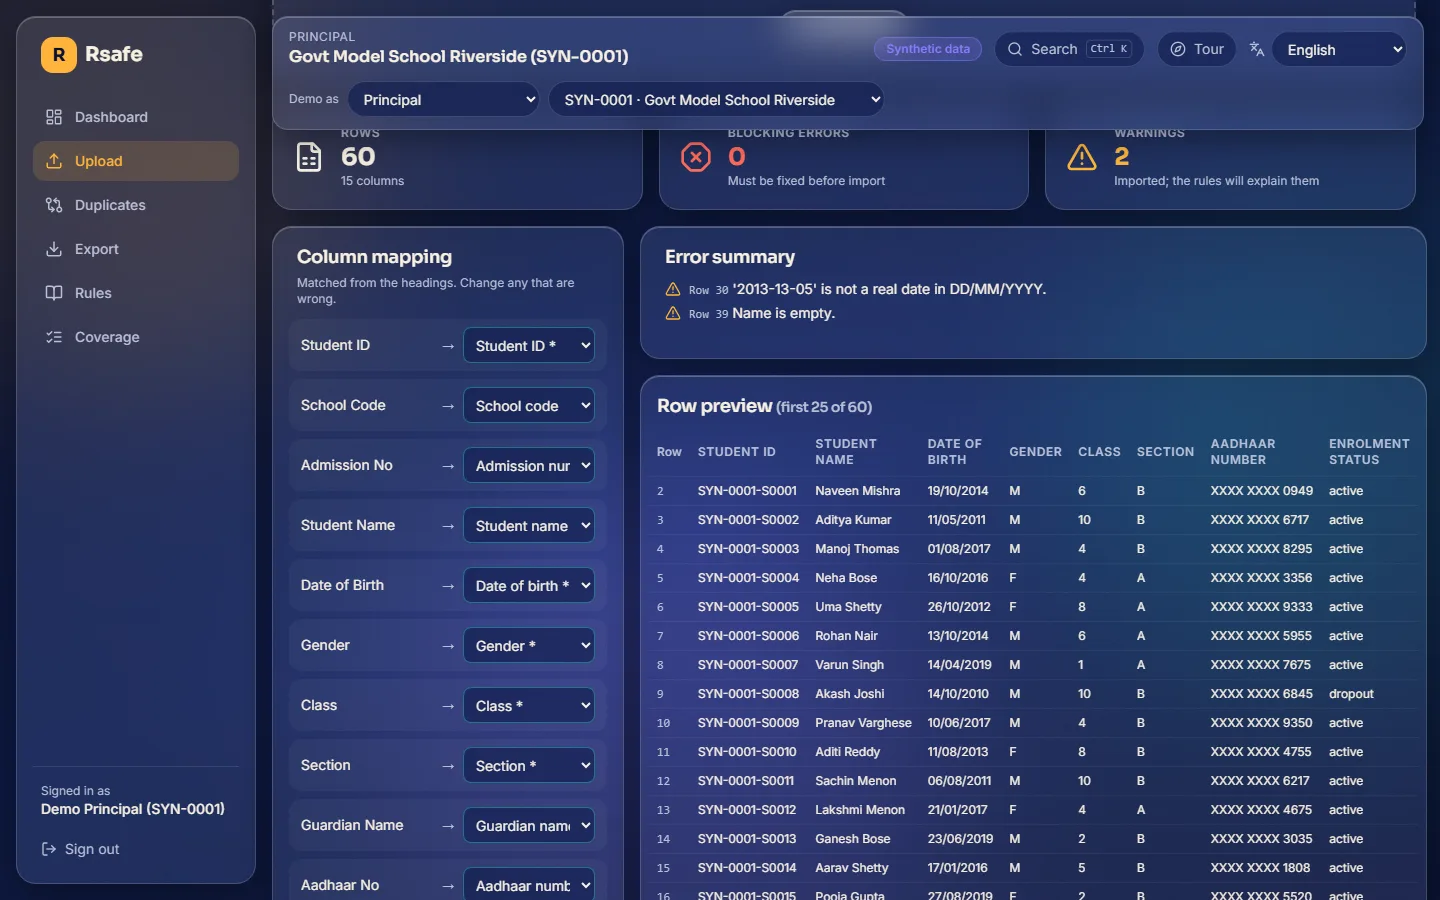
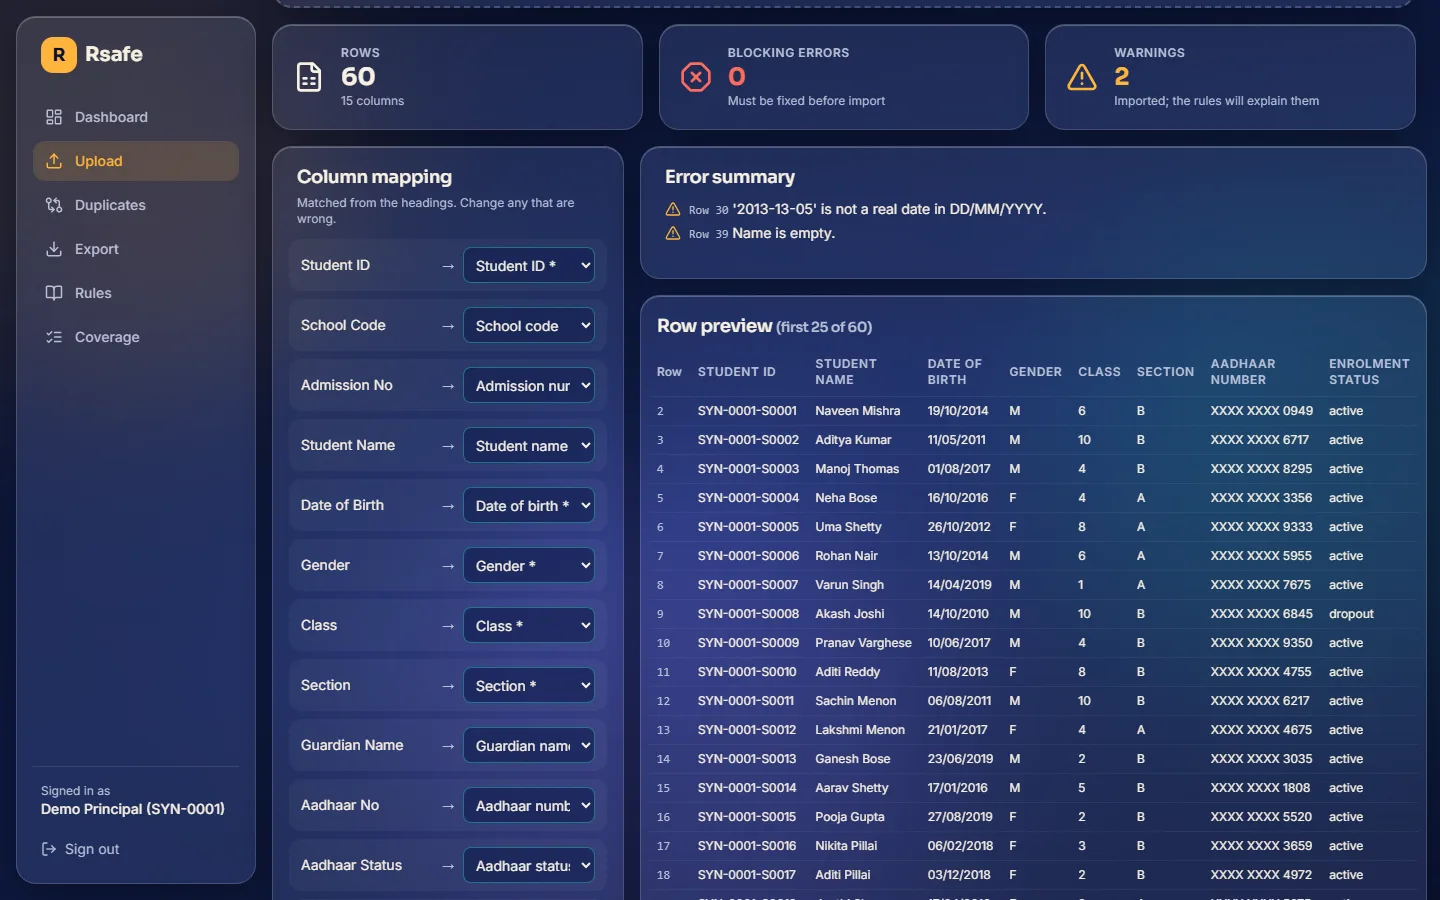
top bar scrolls with the page instead of floating over content; regenerate landing screenshots

diff --git a/frontend/src/components/AppShell.tsx b/frontend/src/components/AppShell.tsx
@@ -203,7 +203,7 @@ export function AppShell() {
       </aside>
 
       <div className="flex min-w-0 flex-1 flex-col">
-        <header className="glass sticky top-4 z-30 mx-4 mt-4 flex flex-wrap items-center gap-3 !rounded-2xl px-4 py-3 md:ml-0">
+        <header className="glass relative z-30 mx-4 mt-4 flex flex-wrap items-center gap-3 !rounded-2xl px-4 py-3 md:ml-0">
           <div className="min-w-0 flex-1">
             <p className="text-xs uppercase tracking-wider text-mist">{ROLE_LABEL[identity.role]}</p>
             <p className="truncate font-display text-base font-semibold text-cream">{place}</p>
